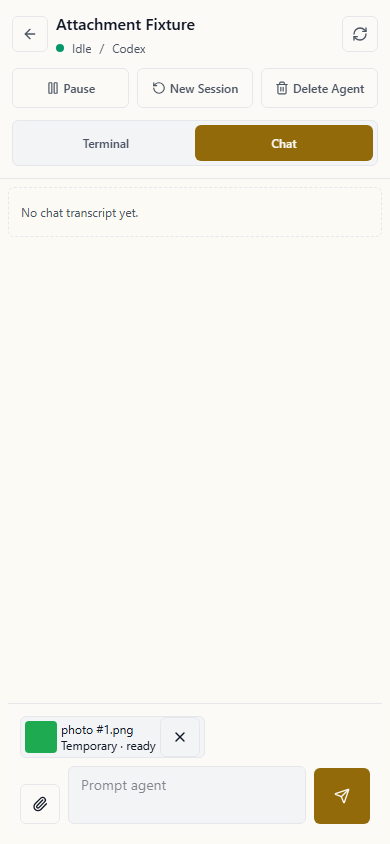
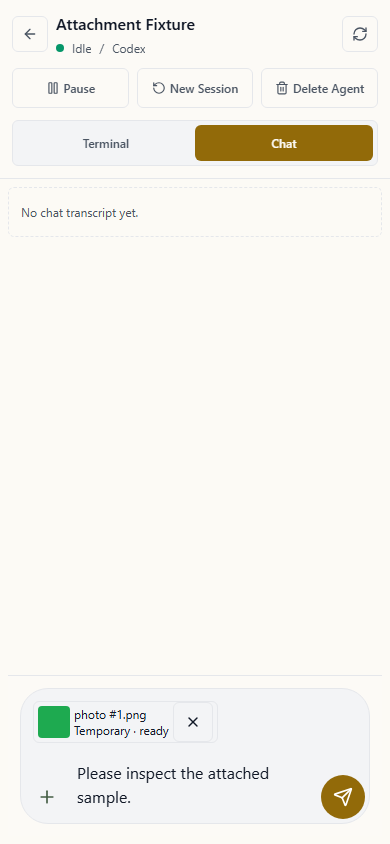
fix(remote): unify the mobile Chat composer (#1780)
## Description

The mobile Chat composer rendered separate attach, input, and send
controls with mismatched sizes. Group them into one rounded field with a
borderless leading plus, an accent-colored circular send button, and
matching 44 px controls that stay bottom-aligned as the draft grows.
Attachment chips sit inside the field above the text.

The textarea grows to a bounded height and shrinks after sending. Empty
and disabled send controls use muted theme tokens. Delivery, attachment
selection/removal, and recovery handlers retain their existing behavior.
Update the Remote Control guide and its synthetic screenshot.

## Related Issues

Fixes #1777

## Type of Change

- [x] Bug fix (non-breaking change which fixes an issue)
- [ ] New feature (non-breaking change which adds functionality)
- [ ] Breaking change (fix or feature that would cause existing
functionality to not work as expected)
- [x] Documentation update

## How Has This Been Tested?

- The existing 19 composer unit tests passed before and after the layout
change.
- Both new light/dark browser layout cases failed on the old composer
and pass after the change. They check equal controls of at least 44 px,
bottom alignment, borderless input/attach, circular send, accent/muted
tokens, growing and bounded text, internal chips, and reset after
sending.
- All eight attachment browser tests passed with retries disabled.
Existing coverage checks selection, removal, binary uploads, validation
[…]

Changed region(s): [[0.0615, 0.8318, 0.6769, 0.955], [0.8, 0.8934, 0.9538, 0.9858], [0.0923, 0.9242, 0.1231, 0.955]]

diff --git a/src/features/remote/RemoteAttachmentComposer.tsx b/src/features/remote/RemoteAttachmentComposer.tsx
@@ -1,10 +1,11 @@
-import { useRef, useState } from "react";
-import { File, Paperclip, Send, X } from "lucide-react";
+import { useLayoutEffect, useRef, useState } from "react";
+import { File, Plus, Send, X } from "lucide-react";
 import type { RemoteAgentSummary } from "../../types";
 import { remoteClient, RemoteRequestError } from "./remoteClient";
 import { REMOTE_ATTACHMENT_ACCEPT, useRemoteAttachments } from "./useRemoteAttachments";
 
 const control = "inline-flex min-h-10 min-w-10 shrink-0 items-center justify-center rounded-md border border-wardian-border px-2 text-primary disabled:opacity-50";
+const composerControl = "inline-flex h-11 w-11 shrink-0 items-center justify-center rounded-full focus-visible:outline-2 focus-visible:outline-offset-2 focus-visible:outline-[var(--color-wardian-accent)]";
 const expiredMessage = "Submission expired and cannot be delivered. Your draft is preserved; you can send it as a new message.";
 
 interface FrozenSubmission {
@@ -29,7 +30,15 @@ export function RemoteAttachmentComposer({ agent, disabledReason, sendText, onAc
   const locked = useRef(false);
   const files = useRef<HTMLInputElement>(null);
   const camera = useRef<HTMLInputElement>(null);
+  const textarea = useRef<HTMLTextAreaElement>(null);
   const frozen = busy || Boolean(uncertain);
+  useLayoutEffect(() => {
+    const input = textarea.current;
+    if (!input) return;
+    // Reset before measuring so accepted sends and shorter drafts shrink again.
+    input.style.height = "auto";
+    input.style.height = `${input.scrollHeight}px`;
+  }, [prompt]);
   const accepted = () => { attachments.clear(); setPrompt(""); setUncertain(null); setRetryMissing(false); onAccepted(); };
   const handleExpiry = (failure: unknown, sending = false) => {
     if (!(failure instanceof RemoteRequestError)) return false;
@@ -95,35 +104,37 @@ export function RemoteAttachmentComposer({ agent, disabledReason, sendText, onAc
   };
   return <form className="chat-composer shrink-0 border-t border-wardian-border bg-wardian-bg/95 p-3 backdrop-blur"
     onSubmit={(event) => { event.preventDefault(); void submit(); }}>
-    {attachments.chips.length > 0 && <div aria-label="Temporary attachments" className="mb-2 flex gap-2 overflow-x-auto">
-      {attachments.chips.map((chip) => <div key={chip.id} className="flex shrink-0 items-center gap-1 rounded-md border border-wardian-border bg-wardian-card px-1 text-xs">
-        {chip.preview ? <img src={chip.preview} alt="" className="h-8 w-8 rounded object-cover" /> : <File aria-hidden="true" className="h-5 w-5" />}
-        <div className="max-w-36"><p className="truncate" title={chip.file.name}>{chip.file.name}</p>
-          <span role="status">{chip.error ?? (chip.state === "ready" ? "Temporary · ready" : chip.state === "validating" ? "Validating…" : `${chip.progress}%`)}</span>
-          {chip.state === "uploading" && <progress aria-label={`Uploading ${chip.file.name}`} value={chip.progress} max={100} className="block w-full" />}
-        </div>
-        {chip.state === "failed" && !chip.authRequired && chip.retryAt !== Infinity && <button type="button" className={control} disabled={frozen}
-          aria-label={`Retry ${chip.file.name}`} onClick={() => attachments.retry(chip)}>Retry</button>}
-        <button type="button" className={control} aria-label={`Remove ${chip.file.name}`} disabled={frozen} onClick={() => attachments.remove(chip.id)}><X className="h-4 w-4" /></button>
-      </div>)}
-    </div>}
     {(error || attachments.error) && <p role="alert" className="mb-2 text-xs text-wardian-error">{error || attachments.error}</p>}
     {uncertain && <button type="button" className={`${control} mb-2`} disabled={busy} onClick={() => void recover()}>Check delivery status</button>}
     {uncertain && retryMissing && <button type="button" className={`${control} mb-2 ml-2`} disabled={busy || Boolean(disabledReason)} onClick={() => void submit(uncertain)}>Retry send</button>}
-    <div className="flex items-end gap-2">
-      <div className="relative">
-        <button type="button" aria-label="Attach file" aria-expanded={menu} disabled={frozen || Boolean(disabledReason)} className={control} onClick={() => setMenu(!menu)}><Paperclip className="h-4 w-4" /></button>
-        {menu && <div aria-label="Attachment sources" className="absolute bottom-full left-0 mb-1 rounded-md border border-wardian-border bg-wardian-card p-1" onKeyDown={(event) => { if (event.key === "Escape") setMenu(false); }}>
-          <button type="button" className={control} disabled={frozen || Boolean(disabledReason)} onClick={() => { setMenu(false); files.current?.click(); }}>Files</button>
-          <button type="button" className={control} disabled={frozen || Boolean(disabledReason)} onClick={() => { setMenu(false); camera.current?.click(); }}>Camera</button>
-        </div>}
+    <div data-testid="remote-composer-field" className="rounded-[28px] border border-wardian-border bg-wardian-card p-1 focus-within:border-[var(--color-wardian-accent)]">
+      {attachments.chips.length > 0 && <div aria-label="Temporary attachments" className="flex gap-2 overflow-x-auto px-2 pb-2 pt-2">
+        {attachments.chips.map((chip) => <div key={chip.id} className="flex shrink-0 items-center gap-1 rounded-md border border-wardian-border bg-wardian-card px-1 text-xs">
+          {chip.preview ? <img src={chip.preview} alt="" className="h-8 w-8 rounded object-cover" /> : <File aria-hidden="true" className="h-5 w-5" />}
+          <div className="max-w-36"><p className="truncate" title={chip.file.name}>{chip.file.name}</p>
+            <span role="status">{chip.error ?? (chip.state === "ready" ? "Temporary · ready" : chip.state === "validating" ? "Validating…" : `${chip.progress}%`)}</span>
+            {chip.state === "uploading" && <progress aria-label={`Uploading ${chip.file.name}`} value={chip.progress} max={100} className="block w-full" />}
+          </div>
+          {chip.state === "failed" && !chip.authRequired && chip.retryAt !== Infinity && <button type="button" className={control} disabled={frozen}
+            aria-label={`Retry ${chip.file.name}`} onClick={() => attachments.retry(chip)}>Retry</button>}
+          <button type="button" className={control} aria-label={`Remove ${chip.file.name}`} disabled={frozen} onClick={() => attachments.remove(chip.id)}><X className="h-4 w-4" /></button>
+        </div>)}
+      </div>}
+      <div className="flex items-end gap-1">
+        <div className="relative">
+          <button type="button" aria-label="Attach file" aria-expanded={menu} disabled={frozen || Boolean(disabledReason)} className={`${composerControl} text-muted hover:bg-wardian-card-bg-muted disabled:opacity-50`} onClick={() => setMenu(!menu)}><Plus aria-hidden="true" className="h-5 w-5" /></button>
+          {menu && <div aria-label="Attachment sources" className="absolute bottom-full left-0 mb-1 rounded-md border border-wardian-border bg-wardian-card p-1" onKeyDown={(event) => { if (event.key === "Escape") setMenu(false); }}>
+            <button type="button" className={control} disabled={frozen || Boolean(disabledReason)} onClick={() => { setMenu(false); files.current?.click(); }}>Files</button>
+            <button type="button" className={control} disabled={frozen || Boolean(disabledReason)} onClick={() => { setMenu(false); camera.current?.click(); }}>Camera</button>
+          </div>}
+        </div>
+        <input ref={files} hidden type="file" disabled={frozen || Boolean(disabledReason)} multiple accept={REMOTE_ATTACHMENT_ACCEPT} aria-label="Choose files" onChange={(event) => { attachments.add(Array.from(event.target.files ?? [])); event.target.value = ""; }} />
+        <input ref={camera} hidden type="file" disabled={frozen || Boolean(disabledReason)} accept="image/png,image/jpeg,image/webp,image/gif,image/bmp" capture="environment" aria-label="Take photo" onChange={(event) => { attachments.add(Array.from(event.target.files ?? [])); event.target.value = ""; }} />
+        <textarea ref={textarea} aria-label={`Prompt ${agent.session_name}`} value={prompt} onChange={(event) => setPrompt(event.target.value)} disabled={frozen || Boolean(disabledReason)} rows={1}
+          className="max-h-40 min-h-11 min-w-0 flex-1 resize-none overflow-y-auto bg-transparent px-1 py-2.5 text-base leading-6 text-primary outline-none disabled:opacity-70" placeholder={disabledReason ?? "Prompt agent"} />
+        <button type="submit" aria-label="Send prompt" disabled={frozen || Boolean(disabledReason) || (!prompt.trim() && !attachments.chips.length) || attachments.chips.some((chip) => chip.state !== "ready")}
+          className={`${composerControl} bg-[var(--color-wardian-accent)] text-[var(--color-wardian-accent-contrast)] disabled:bg-wardian-card-bg-muted disabled:text-[var(--color-wardian-text-muted)]`}><Send aria-hidden="true" className="h-5 w-5" /></button>
       </div>
-      <input ref={files} hidden type="file" disabled={frozen || Boolean(disabledReason)} multiple accept={REMOTE_ATTACHMENT_ACCEPT} aria-label="Choose files" onChange={(event) => { attachments.add(Array.from(event.target.files ?? [])); event.target.value = ""; }} />
-      <input ref={camera} hidden type="file" disabled={frozen || Boolean(disabledReason)} accept="image/png,image/jpeg,image/webp,image/gif,image/bmp" capture="environment" aria-label="Take photo" onChange={(event) => { attachments.add(Array.from(event.target.files ?? [])); event.target.value = ""; }} />
-      <textarea aria-label={`Prompt ${agent.session_name}`} value={prompt} onChange={(event) => setPrompt(event.target.value)} disabled={frozen || Boolean(disabledReason)} rows={2}
-        className="min-h-14 min-w-0 flex-1 resize-none rounded-md border border-wardian-border bg-wardian-card px-3 py-2 text-sm text-primary outline-none focus:border-[var(--color-wardian-accent)] disabled:opacity-70" placeholder={disabledReason ?? "Prompt agent"} />
-      <button type="submit" aria-label="Send prompt" disabled={frozen || Boolean(disabledReason) || (!prompt.trim() && !attachments.chips.length) || attachments.chips.some((chip) => chip.state !== "ready")}
-        className="inline-flex h-14 w-14 shrink-0 items-center justify-center rounded-md bg-[var(--color-wardian-accent)] text-[var(--color-wardian-bg)] disabled:opacity-50"><Send className="h-4 w-4" /></button>
     </div>
   </form>;
 }

diff --git a/e2e/tests/remote-attachments.spec.ts b/e2e/tests/remote-attachments.spec.ts
@@ -20,9 +20,12 @@ async function capture(page: Page, name: string) {
   await page.screenshot({ path: path.join(directory, `${name}.png`), animations: "disabled" });
 }
 
-async function install(page: Page, options: { holdPhoto?: boolean; failText?: boolean; uncertain?: boolean; lostSubmission?: "missing" | "expired" } = {}) {
+async function install(page: Page, options: { theme?: "light" | "dark"; holdPhoto?: boolean; failText?: boolean; uncertain?: boolean; lostSubmission?: "missing" | "expired" } = {}) {
   await page.setViewportSize({ width: 390, height: 844 });
   await page.addInitScript(() => localStorage.setItem("wardian.remote.agentDefaultViewMode", "chat"));
+  if (options.theme) await page.addInitScript((theme) => localStorage.setItem("wardian-settings", JSON.stringify({
+    state: { theme }, version: 2,
+  })), options.theme);
   let release!: () => void;
   const held = new Promise<void>((resolve) => { release = resolve; });
   const uploads: Array<{ id: string; name: string; bytes: Buffer; csrf?: string; media_type?: string }> = [];
@@ -116,6 +119,79 @@ async function install(page: Page, options: { holdPhoto?: boolean; failText?: bo
 
 test.describe("mobile remote attachments", () => {
   test.setTimeout(45_000);
+  for (const theme of ["light", "dark"] as const) {
+    test(`${theme} unified composer grows with equal controls and internal attachments`, async ({ page }) => {
+      const traffic = await install(page, { theme });
+      const field = page.getByTestId("remote-composer-field");
+      const input = page.getByRole("textbox", { name: "Prompt Attachment Fixture" });
+      const attach = field.getByRole("button", { name: "Attach file", exact: true });
+      const send = field.getByRole("button", { name: "Send prompt", exact: true });
+      await expect(field).toBeVisible();
+      await expect(page.locator("html")).toHaveAttribute("data-theme", theme);
+      const geometry = async () => {
+        const [container, leading, trailing, text] = await Promise.all([
+          field.boundingBox(), attach.boundingBox(), send.boundingBox(), input.boundingBox(),
+        ]);
+        expect(leading!.width).toBeGreaterThanOrEqual(44);
+        expect(leading!.height).toBeGreaterThanOrEqual(44);
+        expect(trailing!.width).toBe(leading!.width);
+        expect(trailing!.height).toBe(leading!.height);
+        expect(Math.abs(leading!.y - trailing!.y)).toBeLessThanOrEqual(1);
+        expect(Math.abs(text!.y + text!.height - trailing!.y - trailing!.height)).toBeLessThanOrEqual(1);
+        expect(container!.x).toBeLessThan(leading!.x);
+        expect(container!.x + container!.width).toBeGreaterThan(trailing!.x + trailing!.width);
+        await expect(attach).toHaveCSS("border-left-width", "0px");
+        await expect(input).toHaveCSS("border-left-width", "0px");
+        const radius = await send.evaluate((element) => parseFloat(getComputedStyle(element).borderRadius));
+        expect(radius).toBeGreaterThanOrEqual(trailing!.width / 2);
+        expect(await page.evaluate(() => document.documentElement.scrollWidth)).toBeLessThanOrEqual(390);
+        return text!;
+      };
+      await expect(send).toBeDisabled();
+      const empty = await geometry();
+      expect(empty.height).toBe(44);
+      const muted = await send.evaluate((element) => getComputedStyle(element).backgroundColor);
+      const mutedForeground = await send.evaluate((element) => getComputedStyle(element).color);
+      await capture(page, `${theme}-composer-empty`);
+      await input.fill("Please inspect the sample data.");
+      await expect(send).toBeEnabled();
+      const colors = await page.evaluate(() => {
+        const probe = document.createElement("span");
+        probe.style.backgroundColor = "var(--color-wardian-accent)";
+        probe.style.color = "var(--color-wardian-text-muted)";
+        document.body.append(probe);
+        const style = getComputedStyle(probe);
+        const colors = { accent: style.backgroundColor, muted: style.color };
+        probe.remove(); return colors;
+      });
+      await expect(send).toHaveCSS("background-color", colors.accent);
+      expect(muted).not.toBe(colors.accent);
+      expect(mutedForeground).toBe(colors.muted);
+      await geometry();
+      await capture(page, `${theme}-composer-typed`);
+      await input.fill("Review sample rows.\nSummarize the totals.\nKeep the reply brief.");
+      expect((await geometry()).height).toBeGreaterThan(empty.height);
+      await capture(page, `${theme}-composer-multiline`);
+      await input.fill("Sample line.\n".repeat(20));
+      expect((await geometry()).height).toBeLessThanOrEqual(160);
+      expect(await input.evaluate((element) => element.scrollHeight > element.clientHeight)).toBe(true);
+      await input.fill("Please inspect the attached sample.");
+      await attach.click();
+      await page.getByRole("button", { name: "Files", exact: true }).click();
+      await page.getByLabel("Choose files").setInputFiles(photo);
+      await expect(field.getByText("Temporary · ready")).toBeVisible();
+      const chips = await field.getByLabel("Temporary attachments").boundingBox();
+      expect(chips!.y + chips!.height).toBeLessThanOrEqual((await geometry()).y);
+      await capture(page, `${theme}-composer-attachment`);
+      await send.click();
+      await expect(input).toHaveValue("");
+      await expect(field.getByLabel("Temporary attachments")).toHaveCount(0);
+      await expect(send).toBeDisabled();
+      expect((await geometry()).height).toBe(empty.height);
+      expect(traffic.submissions).toHaveLength(1);
+      expect(traffic.submissions[0]).toMatchObject({ prompt: "Please inspect the attached sample.", attachment_ids: [traffic.uploads[0].id] });
+    });
+  }
   test("Markdown reported as plain text uploads with canonical Content-Type", async ({ page }) => {
     const traffic = await install(page);
     const buffer = Buffer.from("# UTF-8 Markdown\n");

diff --git a/docs/guide/remote-control.md b/docs/guide/remote-control.md
@@ -14,10 +14,14 @@ automations, filesystem access, provider CLIs, PTYs, and telemetry.
 
 ## Attach Files from Chat
 
-In an agent's Chat tab, select **Attach file**, then **Files** or **Camera**.
+In an agent's Chat tab, the rounded message field contains **+** (**Attach file**)
+on the left and a circular **Send** button on the right. Both controls stay
+bottom-aligned as the message field grows with your prompt. Select **+**, then
+**Files** or **Camera**.
 Camera opens the phone's capture picker when supported. Each selected file
-appears in a compact chip with upload progress, a thumbnail or file icon, and
-a remove button. Send becomes available when every attachment is ready.
+appears above the prompt inside the same field, in a compact chip with upload
+progress, a thumbnail or file icon, and a remove button. Send becomes available
+when every attachment is ready.
 You can send attachments without entering a prompt.
 
 ![Mobile Chat composer with a ready photo attachment and a compact remove control](../assets/screenshots/remote-attachments/mobile-chat-attachment.png)
